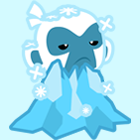
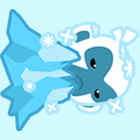
rotated tower image to remove :spaghetti: ness

diff --git a/src/model/Tower.java b/src/model/Tower.java
@@ -32,6 +32,7 @@ public abstract class Tower extends Tile {
 	public Tower(Image img, double cellX, double cellY,
 			double attack, double attackCooldown, double range) {
 		super(img, cellX, cellY, false, false);
+		this.rotation = 90;
 		this.attack = attack;
 		this.attackCooldown = attackCooldown;
 		this.range = range;
@@ -113,14 +114,6 @@ public abstract class Tower extends Tile {
 	
 	public void preUpdate() {
 	}
-	
-	// TODO: change this and change texture
-	@Override
-	public void rotateTo(Entity e) {
-		super.rotateTo(e);
-		rotation += 90; // fix bad alignment in pic
-	}
-	
 	
 	private void updateBuff() {
 		attackSpeedMultiplier = 1;

diff --git a/src/model/Projectile.java b/src/model/Projectile.java
@@ -40,9 +40,7 @@ public abstract class Projectile extends Entity implements IExpirable {
 	public void move() {
 		x += vx/60;
 		y += vy/60;
-		// TODO: fix temp code
 		this.rotation = Math.toDegrees(Math.atan2(vy, vx));
-		rotation -= 90;
 		distance += GameUtil.distance(0, 0, vx/60, vy/60);
 	}
 	
